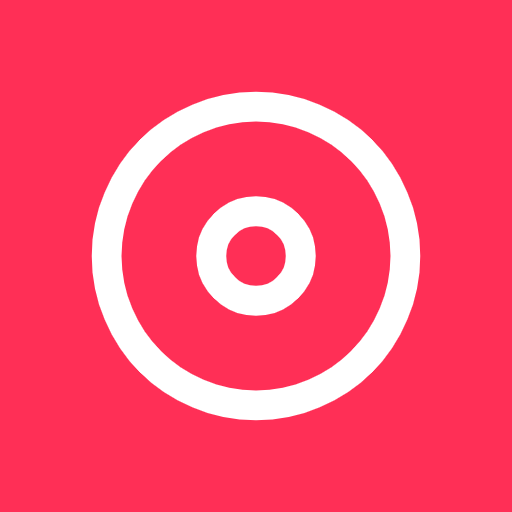
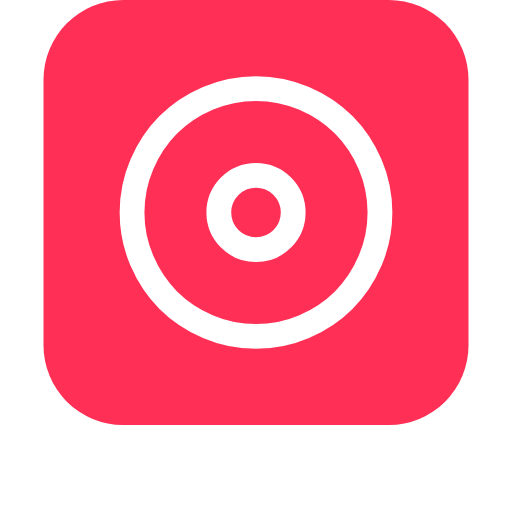
按 app 思路收尾一轮: 左缘返回两种手势都归应用 (非被动 touchstart 掐系统手势起手, 气泡全程钉死; 点按合成补发); 浏览器前进键能重开播放页 (popstate 按 state.fp 双向对齐); 全应用+分享页不画滚动条; 标签页/manifest 图标统一成唱片标 (容器 Chromium 从 SVG 重截三尺寸)

diff --git a/app/music/static/music.js b/app/music/static/music.js
@@ -82,8 +82,9 @@ function route(force) {
 const pushStack = [];   // [{view, id, pane}]
 
 // 主屏图标打开的独立窗口 (standalone) 没有 Safari 左缘返回手势 —— 左缘
-// 必须自己接管, 不然那儿成了死区 (用户点名 "返回手势不好用"); 浏览器里
-// 照旧让出 24px 给系统手势 (抢了会被 pointercancel 掐到一半弹回)。
+// 必须自己接管, 不然那儿成了死区 (用户点名 "返回手势不好用")。浏览器里
+// 左缘也不能让给系统手势: 系统返回是拿整页截图滑走, 钉死的气泡跟着截图
+// 一起跑 (用户点名两边都要气泡固定) —— 掐法见 bindPaneSwipe 后的监听。
 const standaloneLaunch = (window.matchMedia
   && window.matchMedia("(display-mode: standalone)").matches)
   || window.navigator.standalone === true;
@@ -188,16 +189,15 @@ function closePushStack(keep = 0) {
 /** 右划返回: 面板任意位置起手, 横竖先分家 (竖向交还滚动); 拖过三分之一
     或带甩劲松手就收层, 否则弹回。收层自己滑完再 history.back 对齐地址栏
     (路由一看那层已就位, 只做收尾不动画第二遍)。
-    左缘 24px 只在浏览器里让给 iOS 系统边缘返回 (bezel back): 从那儿
-    起手不接管, 系统做完触发 hashchange, 路由照常收层; 抢了的话层跟到
-    一半被 pointercancel 掐弹回 (用户点名 "返回了一半就取消了")。
-    主屏图标打开 (standaloneLaunch) 没有系统手势, 左缘自己接 —— 死区
-    才是 "返回手势不好用" 的真凶。 */
+    左缘也自己接管: 浏览器里 iOS 系统边缘返回是整页截图滑走, 钉死的
+    气泡跟着截图跑 (用户点名 "都是气泡固定") —— 配套的非被动 touchstart
+    在层内左缘 preventDefault 掐掉系统手势起手, 拖拽照常跟手;
+    standalone 没有系统手势, 不必掐 (左缘起手的竖向滚动得以保留)。
+    被掐掉的兼容 click 在 end 里给没挪过的点按补一记合成 (standalone
+    没掐过不能补, 会双发)。 */
 function bindPaneSwipe(pane) {
   pane.addEventListener("pointerdown", (event) => {
     if (event.pointerType === "mouse" && event.button !== 0) return;
-    if (!standaloneLaunch && event.pointerType !== "mouse"
-        && event.clientX < 24) return;
     const startX = event.clientX;
     const startY = event.clientY;
     let horizontal = false;
@@ -223,7 +223,17 @@ function bindPaneSwipe(pane) {
     };
     const end = (ev) => {
       cleanup();
-      if (!horizontal) return;
+      if (!horizontal) {
+        // 浏览器里左缘被 preventDefault 的点按, 浏览器兼容 click 也被掐
+        // 了 —— 没挪过的补一记合成 (行都是 button/a, 兜不到就当点空处);
+        // standalone 没掐过, 原生 click 还在, 补了会双发
+        if (!standaloneLaunch && startX < 24 && !decided) {
+          const hit = document.elementFromPoint(ev.clientX, ev.clientY);
+          const clickable = hit && hit.closest("button, a");
+          if (clickable) clickable.click();
+        }
+        return;
+      }
       const dx = Math.max(0, ev.clientX - startX);
       const width = pane.offsetWidth || 1;
       const flick = ev.timeStamp - lastT < 100 && lastX - startX > 40;
@@ -248,6 +258,21 @@ function bindPaneSwipe(pane) {
     pane.addEventListener("pointerup", end, { signal: signals.signal });
     pane.addEventListener("pointercancel", cancel, { signal: signals.signal });
   });
+}
+
+/** 浏览器里掐掉 iOS 系统边缘返回在推入层左缘的起手 (一次性挂在
+    document, 只在层开着时对层内左缘 24px 生效): 系统返回是拿整页截图
+    滑走, 气泡这种钉死的固定件也跟着截图跑 —— 只有不让系统手势起手,
+    "气泡唯一且固定" 才在两种返回手势下都成立 (用户点名)。非被动
+    touchstart + preventDefault 是唯一掐得动系统手势的口子; pointer
+    事件不受影响, 拖拽照常跟手。代价: 层内左缘起手的竖向滚动没了
+    (24px 的缝), 点按由 bindPaneSwipe 的 end 合成补发。
+    standalone 没有系统手势, 不挂 (左缘滚动保留)。 */
+if (!standaloneLaunch) {
+  document.addEventListener("touchstart", (event) => {
+    if (pushStack.length && event.touches[0].clientX < 24
+        && event.target.closest(".push-pane")) event.preventDefault();
+  }, { passive: false });
 }
 
 // ------------------------------------------------------------ 下载 (离线)

diff --git a/app/music/static/music.html b/app/music/static/music.html
@@ -7,7 +7,7 @@
 <meta name="apple-mobile-web-app-capable" content="yes">
 <meta name="apple-mobile-web-app-status-bar-style" content="black-translucent">
 <meta name="apple-mobile-web-app-title" content="My Music">
-<link rel="icon" type="image/png" sizes="32x32" href="/music/static/favicon-32.png?v=2">
+<link rel="icon" type="image/png" sizes="32x32" href="/music/static/favicon-32.png?v=3">
 <link rel="icon" type="image/svg+xml" href="/music/static/favicon.svg?v=2">
 <link rel="apple-touch-icon" href="/music/static/apple-touch-icon.png?v=3">
 <link rel="manifest" href="/music/static/manifest.json">
@@ -26,7 +26,10 @@
   --nav-bg: rgba(10,10,12,.72);
   --accent: #fa2d48;          /* Apple Music 红 */
 }
-* { box-sizing: border-box; margin: 0; padding: 0; -webkit-tap-highlight-color: transparent; }
+/* app 思路: 全程不画滚动条 (手机本来就不画, 电脑上也干净) —— 能滚, 只是不显示 */
+* { box-sizing: border-box; margin: 0; padding: 0; -webkit-tap-highlight-color: transparent;
+    scrollbar-width: none; }
+::-webkit-scrollbar { display: none; }
 [hidden] { display: none !important; }
 html { -webkit-text-size-adjust: 100%; height: 100%; overflow: hidden; }
      /* 固定壳: 文档本身永不滚 —— 一级页滚动全在 main 内部滚 (用户点名
@@ -175,9 +178,7 @@ main {
 
 .chips {
   display: flex; gap: 8px; overflow-x: auto; padding-bottom: 12px;
-  scrollbar-width: none;
 }
-.chips::-webkit-scrollbar { display: none; }
 .chip {
   flex-shrink: 0; font-size: 12px; color: var(--ink-2);
   background: var(--surface-2); padding: 5px 13px; border-radius: 999px;
@@ -621,12 +622,10 @@ span.t-art { display: flex; align-items: center; justify-content: center;
           background: rgba(255,255,255,.08); box-shadow: 0 18px 50px rgba(0,0,0,.55); }
 #fp-lyrics {
   position: absolute; inset: 0; overflow-y: auto; z-index: 2;
-  scrollbar-width: none;              /* 浏览器不画滚动条 (iOS 本来就不画) */
   -webkit-mask-image: linear-gradient(transparent, #000 18%, #000 82%, transparent);
   mask-image: linear-gradient(transparent, #000 18%, #000 82%, transparent);
   padding: 30% 28px;
 }
-#fp-lyrics::-webkit-scrollbar { display: none; }
 #lyrics-resume {
   position: absolute; left: 50%; bottom: 16px; transform: translateX(-50%);
   z-index: 3; padding: 7px 16px; border-radius: 999px;

diff --git a/app/music/static/share.html b/app/music/static/share.html
@@ -4,6 +4,7 @@
 <meta charset="utf-8">
 <meta name="viewport" content="width=device-width, initial-scale=1, viewport-fit=cover">
 <meta name="theme-color" content="#000000">
+<link rel="icon" type="image/svg+xml" href="/music/static/favicon.svg">
 <!--og-->
 <title>分享 · My Music</title>
 <style>
@@ -21,7 +22,10 @@
     --hairline: rgba(255,255,255,.09);
     --accent: #fa2d48;
   }
-  * { box-sizing: border-box; margin: 0; padding: 0; -webkit-tap-highlight-color: transparent; }
+  /* app 思路: 全程不画滚动条 (手机本来就不画, 电脑上也干净) —— 能滚, 只是不显示 */
+  * { box-sizing: border-box; margin: 0; padding: 0; -webkit-tap-highlight-color: transparent;
+      scrollbar-width: none; }
+  ::-webkit-scrollbar { display: none; }
   [hidden] { display: none !important; }
   html { -webkit-text-size-adjust: 100%; overflow-x: hidden; }
   body {
@@ -187,12 +191,10 @@
             box-shadow: 0 18px 50px rgba(0,0,0,.55); }
   #fp-lyrics {
     position: absolute; inset: 0; overflow-y: auto; z-index: 2;
-    scrollbar-width: none;             /* 浏览器不画滚动条 (iOS 本来就不画) */
     -webkit-mask-image: linear-gradient(transparent, #000 18%, #000 82%, transparent);
     mask-image: linear-gradient(transparent, #000 18%, #000 82%, transparent);
     padding: 30% 28px; cursor: pointer;
   }
-  #fp-lyrics::-webkit-scrollbar { display: none; }
   .lyrics-line {
     font-size: 21px; font-weight: 700; color: rgba(255,255,255,.32);
     padding: 12px 0; line-height: 1.34; text-align: left;

diff --git a/app/music/static/music-player.js b/app/music/static/music-player.js
@@ -364,11 +364,20 @@ function closeFullPlayer(direction) {
   }
 }
 
-// iOS 边缘右滑 (或浏览器返回) 弹掉了播放页的占位条目 → 向右滑出收起。
-// 自己弹条目的那次 popstate 不算 (back 是异步的, 收起后 300ms 内重开也追得上)。
-window.addEventListener("popstate", () => {
+// 播放页占位条目的进出全在这里对齐 (app 思路: 历史条目 = 应用状态,
+// 后退/前进都得还原) ——
+//   后退弹掉它 (边缘右滑/浏览器返回): 向右滑出收起;
+//   前进回到它: 重新掀开播放页 (历史已经站在那条上, openFullPlayer
+//     不会再多挂一条);
+//   自己弹条目的那次 popstate 不算 (back 是异步的, 收起后 300ms 内
+//     重开也追得上)。
+window.addEventListener("popstate", (event) => {
   if (poppingPlayerEntry) {
     poppingPlayerEntry = false;
+    return;
+  }
+  if (event.state && event.state.fp) {
+    if (!playerOpen) openFullPlayer();
     return;
   }
   if (playerOpen) closeFullPlayer("right");

diff --git a/tests/test_music_wiring.py b/tests/test_music_wiring.py
@@ -42,11 +42,11 @@ def test_music_controls_apple_style_wiring():
     # 紧凑实心形, 跟宽箭头同尺寸显得小 —— 28 对 24 才齐平; 撤掉旧补偿边距
     assert 'width="28" height="28"' in common
     assert "margin: 0 2px" not in html
-    # 歌词容器不画滚动条 (用户点名, 电脑浏览器才有): iOS 本来就没有,
-    # 桌面 Chrome/Safari 走伪元素, Firefox 走 scrollbar-width
-    lyrics_css = html[html.index("#fp-lyrics {"):html.index("#lyrics-resume")]
-    assert "scrollbar-width: none;" in lyrics_css
-    assert "#fp-lyrics::-webkit-scrollbar { display: none; }" in html
+    # 整个应用不画滚动条 (用户点名 "整个页面都不要"): 星规则管 Firefox,
+    # 伪元素管 Chrome/Safari; iOS 本来就不画 —— 能滚, 只是不显示
+    star_css = html[html.index("* {"):html.index("[hidden]")]
+    assert "scrollbar-width: none;" in star_css
+    assert "::-webkit-scrollbar { display: none; }" in html
 
 
 def test_music_queue_cover_view_wiring():
@@ -128,9 +128,9 @@ def test_music_share_link_wiring():
                  "fmtDateTime", "playQueue", "togglePlay"]:
         assert frag in share, f"share.html 缺 {frag}"
     assert "music.js?v=" not in share      # 自包含, 不引应用脚本
-    # 歌词容器不画滚动条 (电脑浏览器, 与应用内同款)
+    # 整页不画滚动条 (与应用同款: 星规则 + 伪元素)
     assert "scrollbar-width: none;" in share
-    assert "#fp-lyrics::-webkit-scrollbar { display: none; }" in share
+    assert "::-webkit-scrollbar { display: none; }" in share
     # 全屏播放页 (用户点名"和 app 自己的播放界面大致一样"): 点迷你条掀开,
     # 封面点一下 ↔ 歌词 (近邻模糊同款), 传输三键 + 进度 + 毛玻璃底 +
     # 下拉收起; 歌词解析借公开的 lyrics-parser.js (纯模块, 不带会话)
@@ -177,9 +177,16 @@ def test_music_swipe_delete_wiring():
     # 手势地盘分家 (1.7.0 后遗症修): 左滑只认左移 (右移归推入层返回手势,
     # 抢了会被 pointercancel 掐弹回); 左缘 24px 让给 iOS 系统边缘返回
     assert "swipeDrag.horizontal = dx < 0 && Math.abs(dx) > Math.abs(dy);" in js
-    # 左缘只让给系统手势; 主屏图标打开 (standalone) 没有系统手势, 自己接管
+    # 左缘两种返回手势都归应用自己 (用户点名 "都是气泡固定"): 浏览器里
+    # iOS 系统边缘返回是整页截图滑走, 钉死的气泡跟着截图跑 —— 非被动
+    # touchstart 在层内左缘 preventDefault 掐掉系统手势起手; 掐掉的兼容
+    # click 由 pointerup 合成补发; standalone 没系统手势不掐 (左缘滚动保留)
     assert "const standaloneLaunch" in js
-    assert 'if (!standaloneLaunch && event.pointerType !== "mouse"' in js
+    assert 'if (!standaloneLaunch && event.pointerType !== "mouse"' not in js
+    assert "event.touches[0].clientX < 24" in js
+    assert 'event.target.closest(".push-pane")' in js
+    assert '{ passive: false });' in js
+    assert 'hit.closest("button, a")' in js
     # 拖动跟手: 行上挂 .swiping 撤掉 transform 过渡, 松手回位才交给过渡
     # (不撤的话每帧都在重定 250ms 补间, 手指拖着行像皮筋 —— 队列拖拽同款)
     assert 'swipeDrag.row.classList.add("swiping")' in js
@@ -267,8 +274,12 @@ def test_music_player_back_gesture_wiring():
         in close_player
     assert "history.back()" in close_player      # 按钮收起弹占位条目
     assert "poppingPlayerEntry" in player        # 自己的 back 不当返回手势
-    assert 'window.addEventListener("popstate", () => {' in player
+    assert 'window.addEventListener("popstate", (event) => {' in player
     assert 'closeFullPlayer("right")' in player
+    # 前进键也要对齐 (app 思路: 历史条目 = 应用状态): 前进回到播放页占位
+    # 条目 → 重开播放页 (原来只会收, 按了没反应)
+    assert "if (event.state && event.state.fp) {" in player
+    assert "if (!playerOpen) openFullPlayer();" in player
 
 
 def test_music_download_all_wiring():

diff --git a/app/music/changelog.py b/app/music/changelog.py
@@ -41,13 +41,23 @@ VERSIONS: Final[list[ChangelogVersion]] = [
                                        " 上下滚列表、看歌词的时候它们也纹丝不动"
                                        " (页面改成自己在原地滚, 手机浏览器那两条工具栏"
                                        " 再也不会跟着滚一滚就缩下去、顶一下又弹出来)"),
+        ChangelogItem(kind="修复", text="浏览器的前进键按了没反应的问题修好了:"
+                                       " 前进能重新打开刚收起的播放页,"
+                                       " 和返回键一来一回, 页面状态完全对得上"
+                                       " (应用现在把前进/后退都当成自己的翻页管)"),
+        ChangelogItem(kind="修复", text="用苹果系统自带的边缘返回手势 (浏览器里从屏幕最左边右滑) 时,"
+                                       " 底部气泡会跟着页面一起滑走 —— 现在应用把这条边接管了,"
+                                       " 不管用哪种返回手势, 气泡都钉在原地不动"),
         ChangelogItem(kind="改进", text="底部的播放气泡换成磨砂玻璃材质:"
                                        " 底下的歌单、封面划过去时, 能看见糊成影子的内容透上来,"
                                        " 和顶栏一个质感 (原来是一块实心灰板)"),
         ChangelogItem(kind="改进", text="气泡上的播放/暂停键放大了一号 ——"
                                        " 原来比两边的上一首/下一首看着还小"),
-        ChangelogItem(kind="改进", text="电脑浏览器里看歌词不再显示旁边的滚动条"
-                                       " (和手机上一样干净)"),
+        ChangelogItem(kind="改进", text="电脑浏览器里整个应用都不显示滚动条了"
+                                       " (原来只有歌词页收掉了) —— 能滚, 只是不画,"
+                                       " 和手机上一样干净"),
+        ChangelogItem(kind="改进", text="浏览器标签页上的图标和主屏图标统一了 ——"
+                                       " 都是红底白唱片那个标 (原来标签页还是旧的音符标)"),
         ChangelogItem(kind="改进", text="随机/循环的开关状态和拖过的播放顺序, 关页面再进来还记得"),
     ]),
     ChangelogVersion(version="1.6.0", date="2026-09-15", items=[
